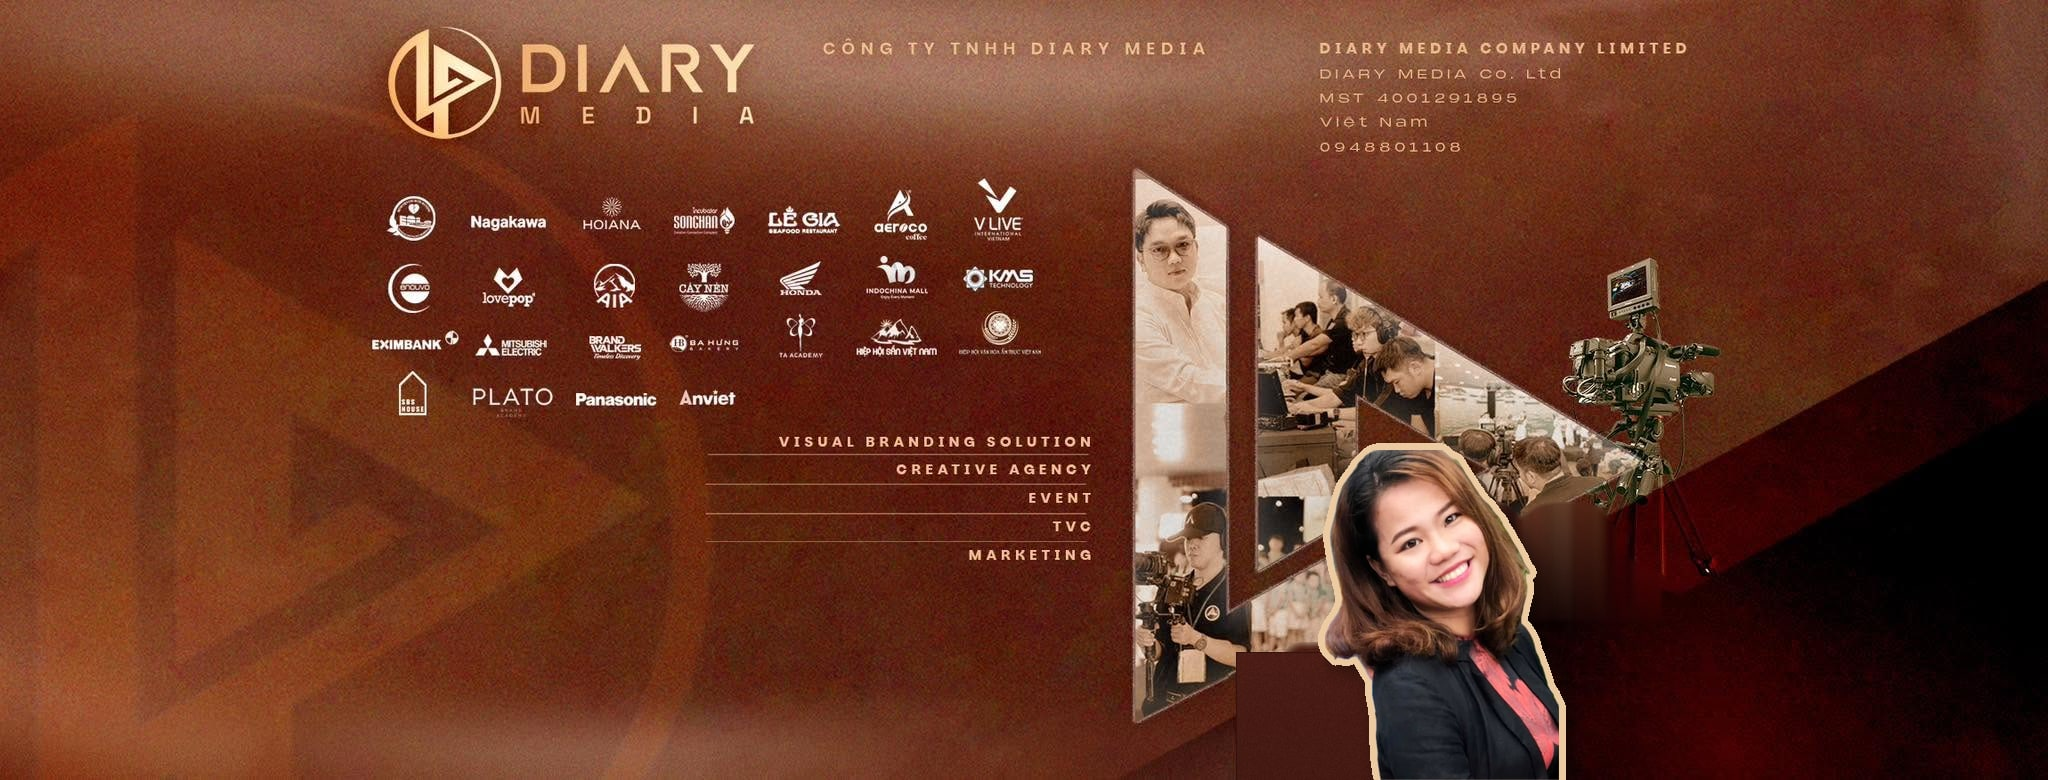
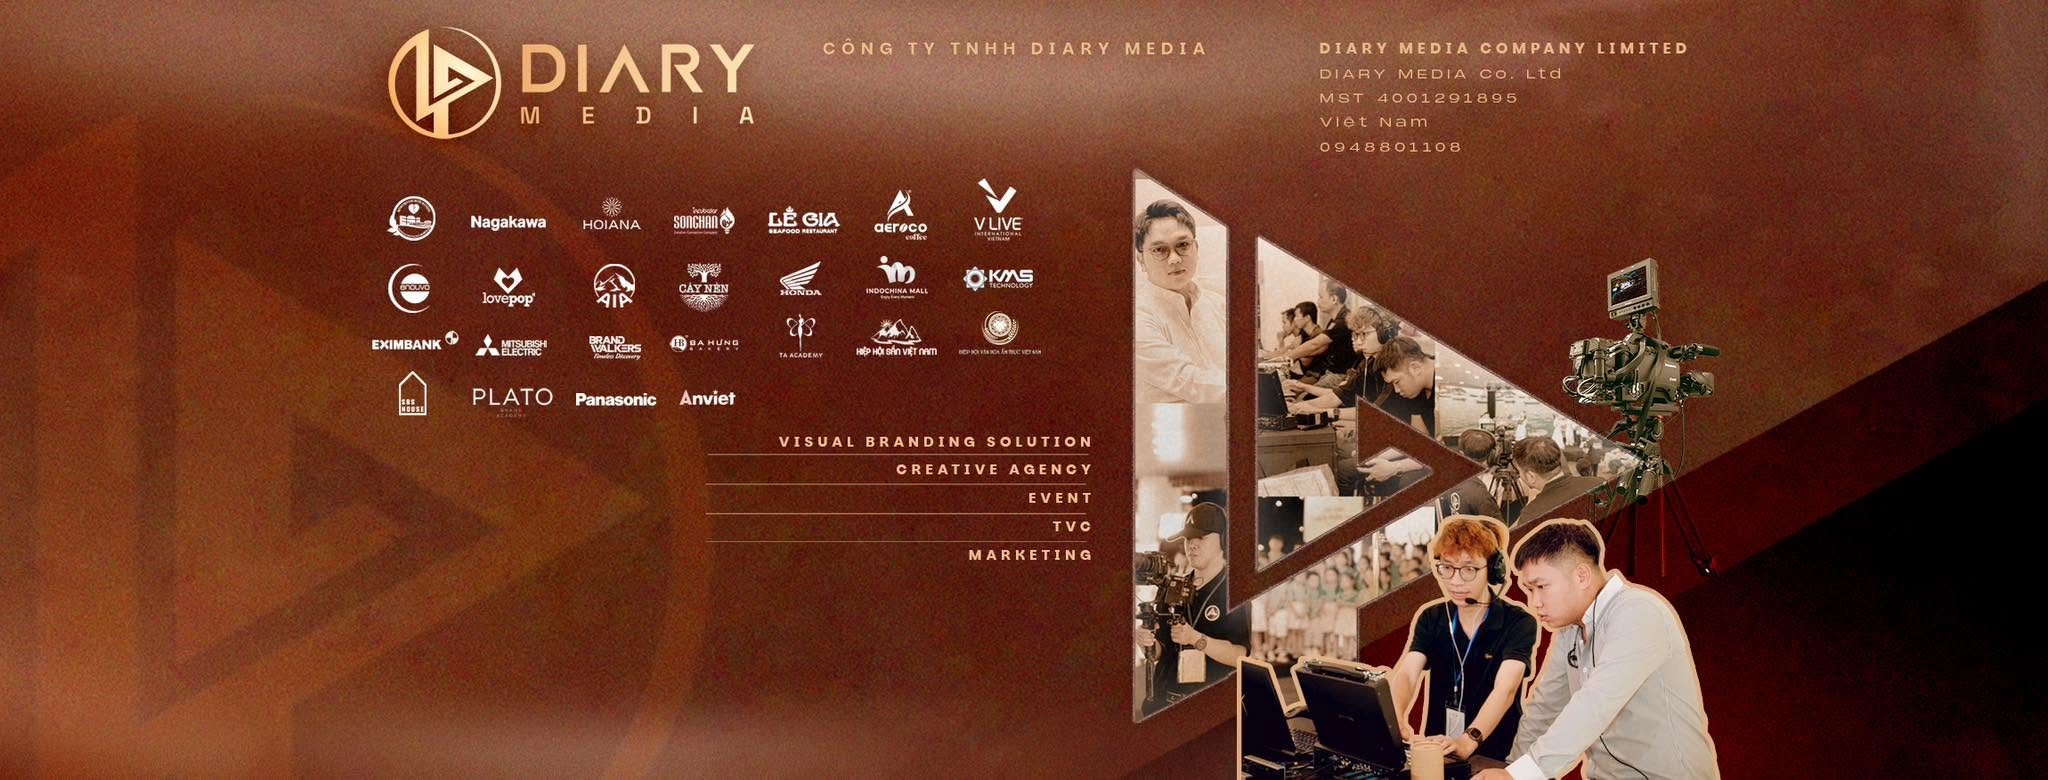
Trả trang chủ về ảnh bìa gốc, bỏ khối thông tin chị Kim Tiên trên ảnh bìa

Changed region(s): [[0.5938, 0.5538, 0.8438, 1.0]]

diff --git a/src/app/page.tsx b/src/app/page.tsx
@@ -2,7 +2,6 @@ import Image from "next/image";
 import Link from "next/link";
 import { ArrowRight, Check } from "lucide-react";
 import { site } from "@/lib/site";
-import { htxDirector } from "@/lib/he-sinh-thai";
 import { solutionServices, productionServices, processSteps, tracks } from "@/lib/services";
 import { ButtonLink, Container, SectionHead, SectionLabel } from "@/components/ui";
 import { ClientMarquee, CtaBlock, FeaturedWork, ServiceCard } from "@/components/blocks";
@@ -30,7 +29,7 @@ export default function HomePage() {
         <div className="relative overflow-hidden rounded-[1.25rem] border border-line bg-black shadow-[0_40px_80px_-40px_rgba(0,0,0,0.8)]">
           <Image
             src="/images/brand/diary-cover.webp"
-            alt="Ảnh bìa Diary Media: logo công ty, các thương hiệu đã đồng hành, ekip phim trường và chị Huỳnh Thị Kim Tiên — Chủ tịch VINAGC, đối tác Hệ Sinh Thái DIARY"
+            alt="Ảnh bìa Diary Media: logo công ty, các thương hiệu đã đồng hành và ekip đang vận hành máy quay tại phim trường"
             width={2048}
             height={780}
             priority
@@ -48,39 +47,6 @@ export default function HomePage() {
             <span className="rec-dot size-[0.75em] rounded-full bg-[#ff3b30]" />
             REC
             <Timecode className="tabular-nums text-white/75" />
-          </div>
-
-          {/* Thông tin chị Kim Tiên, đặt trên khoảng nền đỏ sẫm bên phải ảnh bìa.
-              Toạ độ tính theo % ảnh 2048×780 nên bám đúng vị trí khi ảnh co giãn.
-              Màn nhỏ ảnh quá thấp để đọc được → ẩn, thông tin đầy đủ ở /he-sinh-thai/. */}
-          <div className="absolute bottom-[7%] left-[81.5%] right-[2.6%] z-[2] hidden md:block">
-            <p className="whitespace-nowrap font-mono text-[clamp(7px,0.66vw,10px)] uppercase tracking-[0.18em] text-brand-light/85">
-              Đối tác Hệ Sinh Thái
-            </p>
-            <span aria-hidden className="mt-[0.6vw] block h-px w-[2.6vw] bg-brand/70" />
-            <p
-              className="mt-[0.7vw] whitespace-nowrap text-[clamp(11px,1.32vw,19px)] font-extrabold leading-tight tracking-[-0.01em] text-fg"
-              style={{ fontFamily: "var(--font-display)" }}
-            >
-              {htxDirector.fullName}
-            </p>
-            <p className="mt-[0.3vw] text-[clamp(9px,0.92vw,14px)] font-semibold text-brand-light">
-              {htxDirector.fullRole}
-            </p>
-            <ul className="mt-[0.6vw] flex flex-col gap-[0.25vw] text-[clamp(8px,0.82vw,12.5px)] text-fg-muted">
-              {htxDirector.credentials.slice(0, 1).map((c) => (
-                <li key={c.id} className="flex items-center gap-[0.5em]">
-                  <span aria-hidden className="size-[0.4em] shrink-0 rounded-full bg-brand" />
-                  {c.title}
-                </li>
-              ))}
-            </ul>
-            <Link
-              href="/he-sinh-thai/#nguoi-giu-goc"
-              className="mt-[0.8vw] inline-flex cursor-pointer items-center gap-1 text-[clamp(8px,0.82vw,12.5px)] font-semibold text-brand underline-offset-4 hover:underline"
-            >
-              Xem câu chuyện của chị →
-            </Link>
           </div>
         </div>
 
